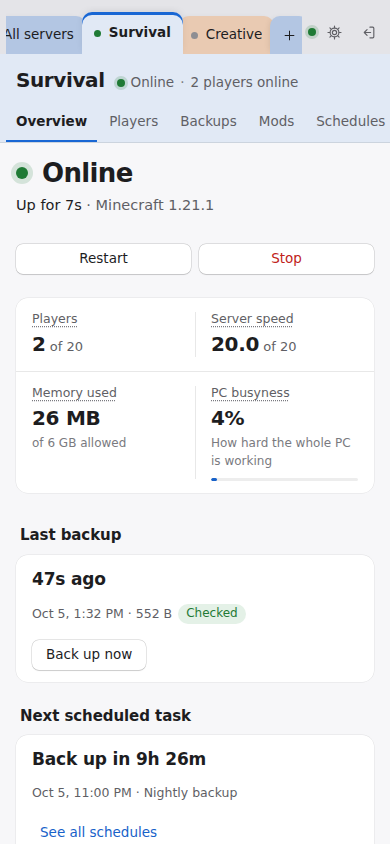
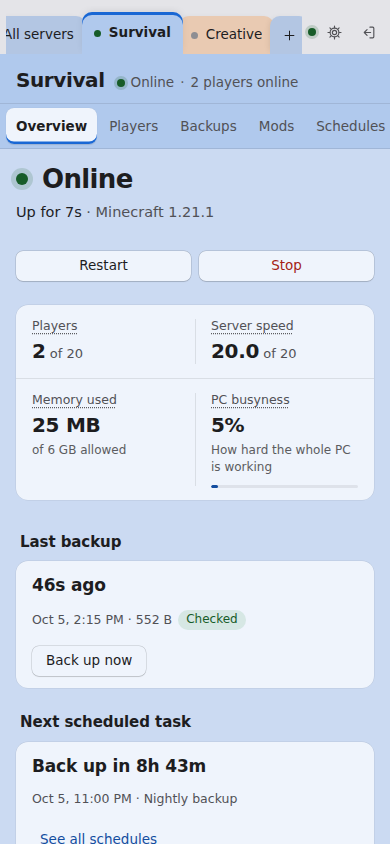
Server color tints the whole page; the server's pages move to a side list
The server's color now tints the page itself, its header and its cards,
not only the header band. Every text, link and status color is derived
again on the tinted backgrounds and checked against them (the browser
check's contrast report now covers body and secondary text on every
tinted surface and the status colors on cards). Colors are rounded to
whole channels before checking, so the checked contrast is the one the
page gets.

The server's pages (Overview, Players, ...) are a list down the left side
of its sheet, with icons; on a phone it stays a sideways-scrolling row.
The gear's two pages use the same list.

diff --git a/agent/web/js/colors.js b/agent/web/js/colors.js
@@ -1,11 +1,13 @@
 /* A server's color carried through its whole page.
 
    The base color (from the server's row, a palette color or the person's
-   own hex) is only ever used as a fill. For everything people read, this
-   derives darker or lighter shades on the current theme until they pass
-   WCAG AA (4.5:1 for text, 3:1 for focus rings and other non-text marks),
-   so any color works on every theme. Status colors (green, amber, red)
-   are separate tokens and never change with the server's color. */
+   own hex) tints the whole page: the page itself, its header band, the
+   cards and the sunken areas each take a little of it, and buttons are
+   filled with it. Everything people read is then derived again on those
+   tinted backgrounds, shaded darker or lighter until it passes WCAG AA
+   (4.5:1 for text, 3:1 for focus rings and other non-text marks), so any
+   color works on every theme. Status colors (green, amber, red) keep their
+   hue; they are only shaded to stay readable on the tint. */
 
 const AA_TEXT = 4.5;
 const AA_MARK = 3;
@@ -37,8 +39,10 @@ export function contrast(a, b) {
   return (hi + 0.05) / (lo + 0.05);
 }
 
+/* Rounded to whole channels, as the hex token will be, so a contrast
+   checked here is the contrast the page gets. */
 function mix(a, b, amount) {
-  return a.map((c, i) => c + (b[i] - c) * amount);
+  return a.map((c, i) => Math.round(c + (b[i] - c) * amount));
 }
 
 const BLACK = [0, 0, 0];
@@ -69,55 +73,103 @@ export function fillWithText(color) {
   return { fill: away, text };
 }
 
-function token(name) {
-  return rgb(getComputedStyle(document.documentElement).getPropertyValue(name));
+/* Every token a server's color sets. The page itself is tinted with it,
+   not only the header: the sheet, the cards and the sunken areas take a
+   little of the color, and every text color is then re-checked against
+   those tinted backgrounds. */
+const TINTED = ["--sheet", "--surface", "--surface-sunken", "--surface-float",
+  "--text-primary", "--text-secondary", "--text-tertiary", "--success", "--warning", "--danger"];
+const ACCENT = ["--accent", "--accent-text", "--accent-hover", "--accent-hover-text", "--accent-ink",
+  "--accent-soft", "--accent-band", "--accent-edge", "--accent-ring", "--tab-fill", "--tab-text"];
+const APPLIED = [...TINTED, ...ACCENT];
+
+/* The theme's own tokens, read with any server tint taken off for the
+   moment, so a color is always derived from the untinted theme. */
+function themeTokens() {
+  const root = document.documentElement.style;
+  const saved = APPLIED.map((name) => [name, root.getPropertyValue(name)]);
+  for (const name of APPLIED) root.removeProperty(name);
+  const style = getComputedStyle(document.documentElement);
+  const read = (name) => rgb(style.getPropertyValue(name));
+  const tokens = Object.fromEntries(TINTED.map((name) => [name, read(name)]));
+  tokens["--desk"] = read("--desk");
+  for (const [name, value] of saved) if (value) root.setProperty(name, value);
+  return tokens;
 }
 
-/* The theme's own surfaces, read from the tokens in styles.css. */
-export function themeSurfaces() {
-  return {
-    surface: token("--surface") || WHITE,
-    sheet: token("--sheet") || WHITE,
-    desk: token("--desk") || WHITE,
-    text: token("--text-primary") || BLACK,
-  };
+/* How much of the server's color each surface takes. High contrast keeps
+   its tint faint so it stays as stark as it is meant to be. */
+function tintAmounts(dark) {
+  if (document.documentElement.dataset.theme === "contrast") {
+    return { sheet: 0.1, surface: 0.06, sunken: 0.1, band: 0.2 };
+  }
+  return dark
+    ? { sheet: 0.18, surface: 0.13, sunken: 0.16, band: 0.3 }
+    : { sheet: 0.2, surface: 0.07, sunken: 0.18, band: 0.32 };
 }
 
-/* Every token a server's color sets, for the current theme. */
+/* A text color kept at least as readable on the tinted backgrounds as it
+   was on the theme's own (and never under AA for body text). */
+function keepReadable(color, before, after, floor = AA_TEXT) {
+  if (!color) return null;
+  const was = Math.min(...before.map((bg) => contrast(color, bg)));
+  return readable(color, after, Math.min(floor, was));
+}
+
 export function derive(baseHex) {
   const base = rgb(baseHex);
   if (!base) return null;
-  const s = themeSurfaces();
-  const dark = luminance(s.sheet) < 0.18;
-  const { fill, text } = fillWithText(base);
+  const k = themeTokens();
+  const sheet0 = k["--sheet"] || WHITE, surface0 = k["--surface"] || WHITE;
+  const sunken0 = k["--surface-sunken"] || surface0, float0 = k["--surface-float"] || surface0;
+  const desk = k["--desk"] || WHITE;
+  const dark = luminance(sheet0) < 0.18;
+  const amount = tintAmounts(dark);
+  const sheet = mix(sheet0, base, amount.sheet);
+  const surface = mix(surface0, base, amount.surface);
+  const sunken = mix(sunken0, base, amount.sunken);
+  const float = mix(float0, base, amount.surface);
+  const band = mix(sheet0, base, amount.band);
+  const before = [sheet0, surface0, sunken0];
+  const after = [sheet, surface, sunken, band];
+  const textOn = (name, floor) => keepReadable(k[name], before, after, floor);
+  const text = textOn("--text-primary");
+  const { fill, text: onFill } = fillWithText(base);
   const hover = fillWithText(mix(fill, dark ? WHITE : BLACK, 0.12));
-  const band = mix(s.sheet, base, dark ? 0.16 : 0.1);
-  const ink = readable(base, [s.surface, s.sheet, band]);
-  const ring = readable(base, [s.surface, s.sheet], AA_MARK);
-  const tab = mix(s.desk, base, dark ? 0.32 : 0.24);
-  return {
-    "--accent": hex(fill),
-    "--accent-text": hex(text),
-    "--accent-hover": hex(hover.fill),
-    "--accent-hover-text": hex(hover.text),
-    "--accent-ink": hex(ink),
-    "--accent-soft": `rgba(${base.map(Math.round).join(", ")}, ${dark ? 0.2 : 0.13})`,
-    "--accent-band": hex(band),
-    "--accent-edge": hex(base),
-    "--accent-ring": hex(ring),
-    "--tab-fill": hex(tab),
-    "--tab-text": hex(readable(s.text, [tab])),
+  const ink = readable(base, [surface, sheet, band]);
+  const ring = readable(base, [surface, sheet], AA_MARK);
+  const tab = mix(desk, base, dark ? 0.32 : 0.24);
+  const tokens = {
+    "--sheet": sheet, "--surface": surface, "--surface-sunken": sunken, "--surface-float": float,
+    "--text-primary": text,
+    "--text-secondary": textOn("--text-secondary"),
+    "--text-tertiary": textOn("--text-tertiary"),
+    "--success": textOn("--success"),
+    "--warning": textOn("--warning"),
+    "--danger": textOn("--danger"),
+    "--accent": fill,
+    "--accent-text": onFill,
+    "--accent-hover": hover.fill,
+    "--accent-hover-text": hover.text,
+    "--accent-ink": ink,
+    "--accent-band": band,
+    "--accent-edge": base,
+    "--accent-ring": ring,
+    "--tab-fill": tab,
+    "--tab-text": readable(k["--text-primary"] || BLACK, [tab]),
   };
+  const out = {};
+  for (const [name, value] of Object.entries(tokens)) if (value) out[name] = hex(value);
+  out["--accent-soft"] = `rgba(${base.map(Math.round).join(", ")}, ${dark ? 0.2 : 0.13})`;
+  return out;
 }
-
-const APPLIED = Object.keys(derive("#808080") || {});
 
 /* Colors the page for one server, or back to the neutral look (null). */
 export function applyServerColor(baseHex) {
   const root = document.documentElement.style;
   const tokens = baseHex ? derive(baseHex) : null;
   for (const name of APPLIED) {
-    if (tokens) root.setProperty(name, tokens[name]);
+    if (tokens && tokens[name]) root.setProperty(name, tokens[name]);
     else root.removeProperty(name);
   }
   setFavicon(baseHex);
@@ -144,15 +196,25 @@ export function setFavicon(baseHex) {
 /* For the browser check: every pair that must pass, with its ratio. */
 export function contrastReport(baseHex) {
   const tokens = derive(baseHex);
-  const s = themeSurfaces();
   const c = (name) => rgb(tokens[name]);
-  return [
-    ["text on button", contrast(c("--accent-text"), c("--accent")), AA_TEXT],
-    ["text on hovered button", contrast(c("--accent-hover-text"), c("--accent-hover")), AA_TEXT],
-    ["link on card", contrast(c("--accent-ink"), s.surface), AA_TEXT],
-    ["link on page", contrast(c("--accent-ink"), s.sheet), AA_TEXT],
-    ["link on header band", contrast(c("--accent-ink"), c("--accent-band")), AA_TEXT],
-    ["text on tab", contrast(c("--tab-text"), c("--tab-fill")), AA_TEXT],
-    ["focus ring on page", contrast(c("--accent-ring"), s.sheet), AA_MARK],
-  ].map(([pair, ratio, min]) => ({ pair, ratio: Math.round(ratio * 100) / 100, min }));
+  const pairs = [
+    ["text on button", "--accent-text", "--accent", AA_TEXT],
+    ["text on hovered button", "--accent-hover-text", "--accent-hover", AA_TEXT],
+    ["link on card", "--accent-ink", "--surface", AA_TEXT],
+    ["link on page", "--accent-ink", "--sheet", AA_TEXT],
+    ["link on header band", "--accent-ink", "--accent-band", AA_TEXT],
+    ["text on tab", "--tab-text", "--tab-fill", AA_TEXT],
+    ["focus ring on page", "--accent-ring", "--sheet", AA_MARK],
+  ];
+  for (const bg of ["--sheet", "--surface", "--surface-sunken", "--accent-band"]) {
+    pairs.push([`text on ${bg.slice(2)}`, "--text-primary", bg, AA_TEXT]);
+    pairs.push([`secondary text on ${bg.slice(2)}`, "--text-secondary", bg, AA_TEXT]);
+  }
+  for (const status of ["--success", "--warning", "--danger"]) {
+    pairs.push([`${status.slice(2)} on card`, status, "--surface", AA_MARK]);
+  }
+  return pairs.map(([pair, fg, bg, min]) => {
+    const ratio = contrast(c(fg), c(bg));
+    return { pair, ratio: Math.round(ratio * 100) / 100, min };
+  });
 }

diff --git a/agent/web/styles.css b/agent/web/styles.css
@@ -75,6 +75,7 @@
   --space-6: 32px;
   --space-7: 48px;
   --content-width: 1240px;
+  --sidebar-width: 208px;
   --control-height: 30px;
   --tab-height: 38px;
   --ease: cubic-bezier(0.25, 0.1, 0.25, 1);
@@ -367,7 +368,10 @@ input[type="checkbox"], input[type="radio"] { accent-color: var(--accent); width
 /* ------------------------------------------------------------------ the sheet */
 .sheet {
   flex: 1;
-  display: flex; flex-direction: column;
+  display: grid;
+  grid-template-columns: var(--sidebar-width) minmax(0, 1fr);
+  grid-template-rows: auto 1fr;
+  grid-template-areas: "head head" "nav body";
   min-width: 0;
   margin: 0 var(--space-3) var(--space-3);
   background: var(--sheet);
@@ -376,6 +380,8 @@ input[type="checkbox"], input[type="radio"] { accent-color: var(--accent); width
   outline: none;
   transform-origin: left center;
 }
+/* no page list (All servers, the + tab): the page takes the full width */
+.sheet:has(> .subnav[hidden]) { grid-template-columns: minmax(0, 1fr); grid-template-areas: "head" "body"; }
 .sheet:focus-visible { box-shadow: var(--shadow-sheet); }
 .sheet.flip-forward { animation: flip-forward 260ms var(--ease); }
 .sheet.flip-back { animation: flip-back 260ms var(--ease); }
@@ -397,28 +403,39 @@ input[type="checkbox"], input[type="radio"] { accent-color: var(--accent); width
 .sheet-state { display: inline-flex; align-items: center; gap: 6px; color: var(--text-secondary); font-size: 13.5px; }
 .sheet-state .sep { color: var(--text-tertiary); }
 
+/* The server's pages: a list down the left side of its sheet, on the same
+   tint as the header band so the two read as one frame around the page. */
 .subnav {
-  display: flex; gap: 2px;
-  padding: 0 calc(var(--space-6) - 10px);
+  grid-area: nav;
+  display: flex; flex-direction: column; gap: 2px;
+  padding: var(--space-3) var(--space-2) var(--space-5);
   background: var(--accent-band);
-  border-bottom: 1px solid var(--border);
-  overflow-x: auto; scrollbar-width: none;
+  border-right: 1px solid var(--border);
+  border-radius: 0 0 0 var(--radius-lg);
 }
-.subnav::-webkit-scrollbar { display: none; }
+.subnav[hidden] { display: none; }
 .nav-item {
-  flex-shrink: 0;
-  padding: 9px 10px 8px;
-  border-bottom: 2.5px solid transparent;
+  display: flex; align-items: center; gap: 10px;
+  min-height: 34px;
+  padding: 6px 10px;
+  border-radius: var(--radius);
   color: var(--text-secondary);
   font-size: 13.5px; font-weight: 500;
   text-decoration: none;
-  transition: color var(--duration) var(--ease), border-color var(--duration) var(--ease);
+  transition: color var(--duration) var(--ease), background var(--duration) var(--ease);
 }
-.nav-item:hover { color: var(--text-primary); text-decoration: none; }
-.nav-item[aria-current="page"] { color: var(--text-primary); font-weight: 600; border-bottom-color: var(--accent-ring); }
-.nav-item:focus-visible { border-radius: var(--radius-sm) var(--radius-sm) 0 0; }
+.nav-item .icon { width: 17px; height: 17px; flex-shrink: 0; }
+.nav-label { min-width: 0; line-height: 1.25; overflow-wrap: anywhere; }
+.nav-item:hover { color: var(--text-primary); background: var(--surface-hover); text-decoration: none; }
+.nav-item[aria-current="page"] {
+  color: var(--text-primary); font-weight: 600;
+  background: var(--surface);
+  box-shadow: inset 3px 0 0 var(--accent-ring), var(--shadow-control);
+}
+.nav-item[aria-current="page"] .icon { color: var(--accent-ink); }
+.sheet-head { grid-area: head; border-bottom: 1px solid var(--border); }
+.sheet-body { grid-area: body; }
 :root:not([data-scope="server"]) .sheet-head { padding-bottom: var(--space-4); }
-:root:not([data-scope="server"]) .sheet-head:has(+ .subnav[hidden]) { border-bottom: 1px solid var(--border); }
 
 .sheet-body { width: 100%; max-width: var(--content-width); padding: var(--space-5) var(--space-6) var(--space-7); }
 .toolbar { display: flex; align-items: center; gap: var(--space-3); min-height: 34px; margin-bottom: var(--space-4); }
@@ -957,7 +974,7 @@ td .btn-row { flex-wrap: nowrap; justify-content: flex-end; }
 /* ------------------------------------------------------------------ narrower windows */
 @media (max-width: 1000px) {
   .sheet-head { padding: var(--space-4) var(--space-5) var(--space-3); }
-  .subnav { padding: 0 calc(var(--space-5) - 10px); }
+  .sheet { --sidebar-width: 176px; }
   .sheet-body { padding: var(--space-4) var(--space-5) var(--space-7); }
   .connection .label { display: none; }
 }
@@ -971,7 +988,15 @@ td .btn-row { flex-wrap: nowrap; justify-content: flex-end; }
   .sheet { margin: 0; border-radius: 0; }
   .sheet-head { padding: var(--space-3) var(--space-4) var(--space-2); border-radius: 0; }
   .sheet-name { font-size: 20px; }
-  .subnav { padding: 0 6px; }
+  /* on a phone the page list is a row under the header that scrolls sideways */
+  .sheet:not(:has(> .subnav[hidden])) { grid-template-columns: minmax(0, 1fr); grid-template-areas: "head" "nav" "body";
+                                        grid-template-rows: auto auto 1fr; }
+  .subnav { flex-direction: row; padding: 4px 6px; border-right: 0; border-bottom: 1px solid var(--border);
+            border-radius: 0; overflow-x: auto; scrollbar-width: none; }
+  .subnav::-webkit-scrollbar { display: none; }
+  .nav-item { flex-shrink: 0; min-height: 36px; white-space: nowrap; }
+  .nav-item .icon { display: none; }
+  .nav-item[aria-current="page"] { box-shadow: inset 0 -2.5px 0 var(--accent-ring), var(--shadow-control); }
   .sheet-body { padding: var(--space-4) var(--space-4) var(--space-7); }
   .toolbar { flex-wrap: wrap; }
   .toolbar h1 { font-size: 20px; }

diff --git a/agent/web/js/nav.js b/agent/web/js/nav.js
@@ -1,6 +1,6 @@
 /* The page shell: server tabs across the top, the selected server's
-   "sheet" in its color with the server's own pages in a row inside it, and
-   the gear for app-wide settings. Pages about the agent itself (the gear,
+   "sheet" tinted with its color, with the server's own pages in a list down
+   its left side (a row on a phone), and the gear for app-wide settings. Pages about the agent itself (the gear,
    All servers, adding a server) get a neutral sheet. */
 
 import { signOut } from "./auth.js";
@@ -50,11 +50,11 @@ function renderSubnav() {
   const items = PAGES.filter(([, , scope]) => scope === state.scope && scope !== "all" && scope !== "add");
   nav.hidden = !items.length;
   nav.setAttribute("aria-label", state.scope === "server" ? t("nav.server_pages") : t("nav.app_pages"));
-  nav.replaceChildren(...items.map(([key, label]) => el("a", {
+  nav.replaceChildren(...items.map(([key, label, , iconName]) => el("a", {
     class: "nav-item", href: `#${key}`,
     "aria-current": state.page === key ? "page" : null,
     onclick: (event) => { event.preventDefault(); navigate(key); },
-  }, t(label))));
+  }, icon(iconName), el("span", { class: "nav-label" }, t(label)))));
   const current = nav.querySelector('[aria-current="page"]');
   if (current) current.scrollIntoView({ block: "nearest", inline: "nearest" });
 }

diff --git a/docs/dashboard.md b/docs/dashboard.md
@@ -6,24 +6,28 @@ Sign in with the username and password you created with
 ## Tabs, colors and layout
 
 Each server has a tab across the top, like the dividers in a folder, with
-**All servers** on the left and **+** (add a server) on the right. The page
-under a tab takes that server's color, and the server's own pages (Overview,
-Players, Backups, Mods, Schedules, Performance, Console, Events, Crashes,
-Server settings) are in a row inside it. The browser tab's icon takes the
-server's color too. Left/Right arrow keys move between tabs, Home and End jump
-to the ends, and the dashboard remembers the last server you looked at.
+**All servers** on the left and **+** (add a server) on the right. The whole
+page under a tab takes that server's color: the header, the page itself and
+its cards are all tinted with it, and its buttons are filled with it. The
+server's own pages (Overview, Players, Backups, Mods, Schedules,
+Performance, Console, Events, Crashes, Server settings) are listed down the
+left side of the page, under its name. The browser tab's icon takes the
+server's color too. Left/Right arrow keys move between tabs, Home and End
+jump to the ends, and the dashboard remembers the last server you looked at.
 
 Every server has one of twelve colors, or any color you pick, set in
 **Server settings > Name and color**. A new server gets the next unused one.
-Text on tabs and buttons is darkened or lightened to stay readable whatever
-the color.
+All text, links and status colors are darkened or lightened against the
+tinted page so they stay readable whatever the color, in every theme. High
+contrast keeps the tint faint.
 
 If another server crashes, its tab gets a red **!**, and a message names it
 with a button to switch to it. **All servers** shows one card per server with
 its state, players, uptime and port.
 
-On a phone, the tabs and the page row each scroll sideways; nothing on a page
-is wider than the screen.
+On a phone, the tabs scroll sideways, and the page list becomes a row under
+the server's name that scrolls sideways too; nothing on a page is wider than
+the screen.
 
 ## Settings for this app (the gear)
 

diff --git a/docs/architecture.md b/docs/architecture.md
@@ -197,8 +197,9 @@ directly, so there is still nothing to compile. `index.html` loads one module,
   `servers.js` (the server list, tabs and All servers page), `charts.js`
   and `prefs.js` (theme and Simple/Technical, saved per account) do one job
   each.
-- `colors.js` turns a server's color into the page's accent shades, checked
-  for readable contrast on every theme. Theme colors in `styles.css` that it
+- `colors.js` tints the whole page with a server's color (page, header,
+  cards, buttons) and re-derives every text color on the tint, checked for
+  readable contrast on every theme. Theme colors in `styles.css` that it
   reads (`--desk`, `--sheet`, `--surface`, `--text-primary`) must be hex.
 - `strings.js` holds every piece of text the dashboard shows, each with a
   Simple and a Technical version; pages look text up with `t(key)`.
